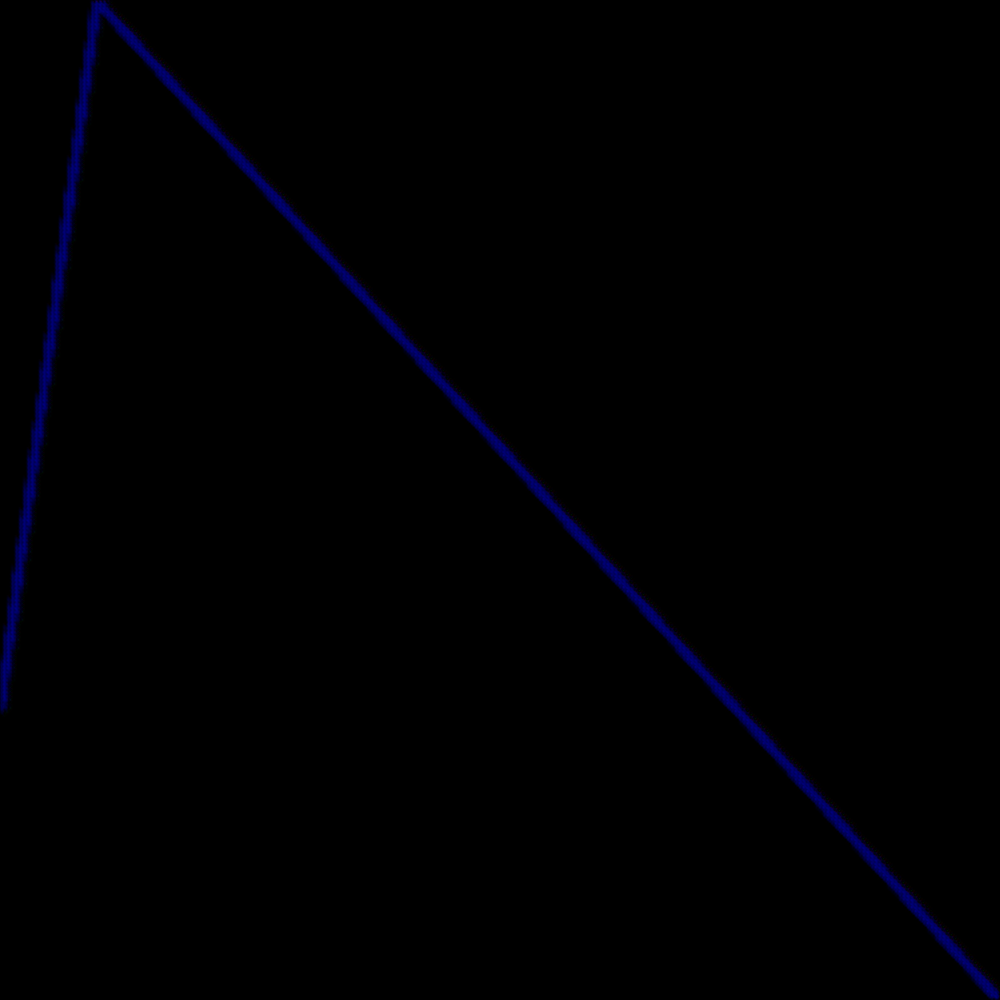
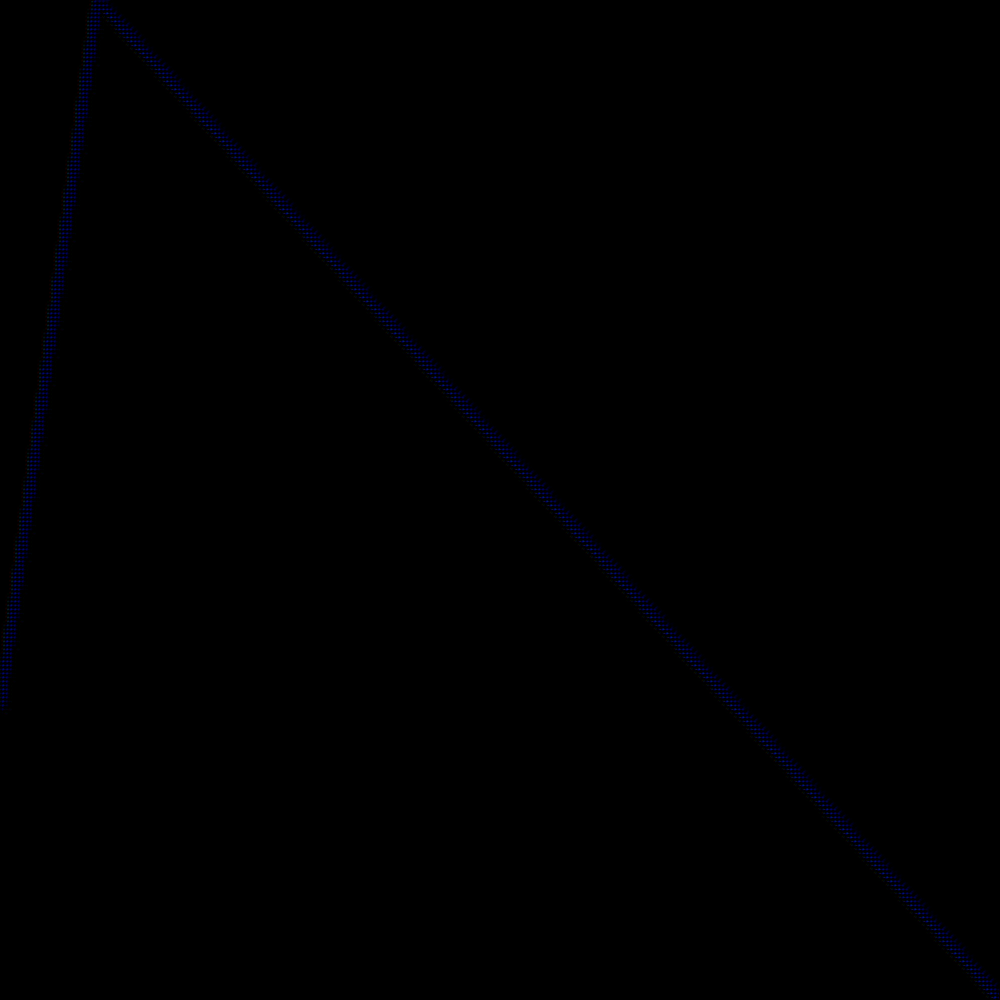
pc upd.

diff --git a/datasets/simplelines/script.py b/datasets/simplelines/script.py
@@ -3,14 +3,14 @@ from PIL import Image, ImageDraw
 import random
 
 
+
 def create_dataset(size):
     for i in range(size):
         with Image.open("datasets/simplelines/main.png") as im:
-            draw = ImageDraw.Draw(im)
-            draw.line(((0, random.randint(1, im.size[0])), (random.randint(1, im.size[1]), 0)) + im.size, width=10, fill=128)    
+            draw = ImageDraw.Draw(im.resize(100, 100))
+            draw.line(((0, random.randint(1, 100)), (random.randint(1, 100), 0)) + im.size, width=10, fill=128)    
             hr = im
-            lr = im.resize([im.size[0]// , im.size[1]// 10])
             hr.save(f"datasets/simplelines/hr/{i}.png")
-            lr.save(f"datasets/simplelines/lr/{i}.png")
+
 
 create_dataset(1000)
